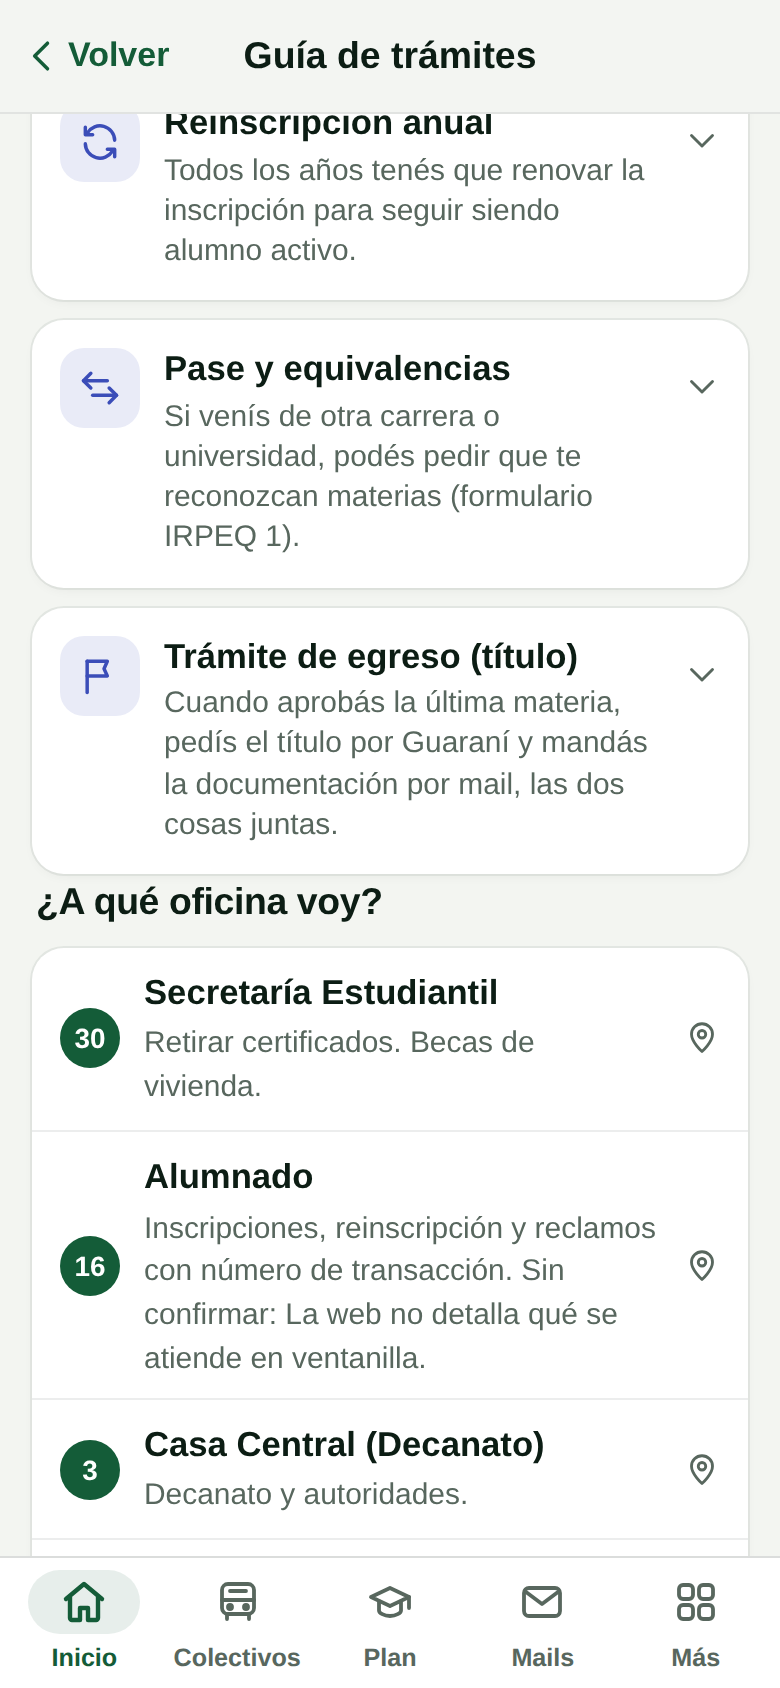
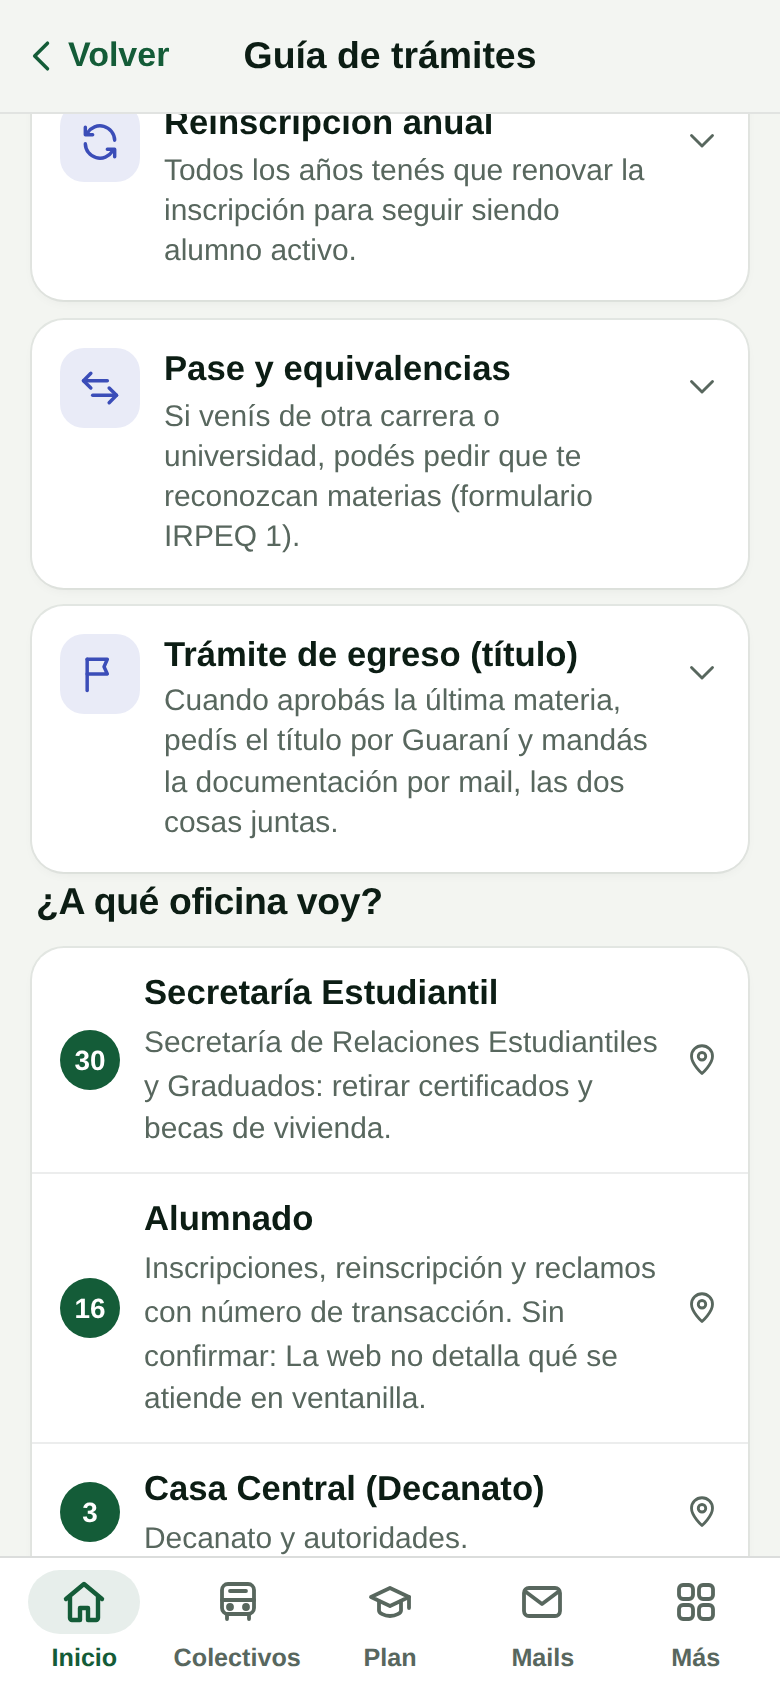
Trámites: Centro de Salud en el Pabellón 15, Secretaría Estudiantil y boleto en toda la provincia
Datos confirmados por Santi.

Claude-Session: https://claude.ai/code/session_01L8FW6L5yboTwitVha8t4YR

diff --git a/src/data/tramites.ts b/src/data/tramites.ts
@@ -71,11 +71,7 @@ export const TRAMITES: Tramite[] = [
     pasos: [
       { texto: 'Descargá el formulario de inscripción y la lista de requisitos 2026.', enlace: { titulo: 'Formulario Becas Vivienda (PDF)', url: 'https://fveter.unr.edu.ar/assets/archivos/Formulario%20Becas%20Vivienda.pdf' } },
       { texto: 'Juntá la documentación de la lista (los datos personales van como declaración jurada).', enlace: { titulo: 'Requisitos beca de vivienda 2026 (PDF)', url: 'https://fveter.unr.edu.ar/assets/archivos/Requisitos%20beca%20de%20vivienda%202026.pdf' } },
-      {
-        texto: 'Entregá todo en la Secretaría de Relaciones Estudiantiles y Graduados.',
-        lugar: 30,
-        sinConfirmar: 'Suponemos que es la "Secretaría Estudiantil" del mapa (30); la web no da la ubicación',
-      },
+      { texto: 'Entregá todo en la Secretaría de Relaciones Estudiantiles y Graduados (la Secretaría Estudiantil).', lugar: 30 },
     ],
     contacto: { tel: TEL_FCV },
     fuente: { titulo: 'fveter.unr.edu.ar: Becas de la Facultad', url: 'https://fveter.unr.edu.ar/becasdelfacultad.html' },
@@ -105,10 +101,7 @@ export const TRAMITES: Tramite[] = [
       { texto: 'Ingresá con tu ID Ciudadana (si no tenés, creala) y completá tus datos.' },
       { texto: 'Si el sistema te lo pide, subí el certificado de alumno regular (lo sacás en Guaraní).' },
       { texto: 'Cuando te aprueben, acreditalo en tu tarjeta SUBE en cualquier terminal. En los interurbanos sin SUBE el pasaje sale como voucher o código QR desde la app.' },
-      {
-        texto: 'Para ir y volver de Rosario, fijate en la app qué empresas del corredor Casilda ⇄ Rosario lo aceptan.',
-        sinConfirmar: 'Las fuentes no listan empresas ni si cubre el tramo Casilda ⇄ Rosario',
-      },
+      { texto: 'Sirve en toda la provincia de Santa Fe, también para el colectivo Casilda ⇄ Rosario.' },
     ],
     fuente: { titulo: 'La Capital: el trámite paso a paso', url: 'https://www.lacapital.com.ar/la-ciudad/boleto-educativo-santa-fe-el-tramite-paso-paso-obtener-el-beneficio-n10241849.html' },
   },
@@ -173,14 +166,10 @@ export const TRAMITES: Tramite[] = [
 
 /** Oficinas del predio a las que mandan los trámites (número del mapa y para qué ir) */
 export const OFICINAS: { lugar: number; para: string; sinConfirmar?: string }[] = [
-  { lugar: 30, para: 'Retirar certificados. Becas de vivienda.' },
+  { lugar: 30, para: 'Secretaría de Relaciones Estudiantiles y Graduados: retirar certificados y becas de vivienda.' },
   { lugar: 16, para: 'Inscripciones, reinscripción y reclamos con número de transacción.', sinConfirmar: 'La web no detalla qué se atiende en ventanilla' },
   { lugar: 3, para: 'Decanato y autoridades.' },
-  {
-    lugar: 29,
-    para: 'Atención de salud para estudiantes.',
-    sinConfirmar: 'La web de la facultad ubica el Centro de Salud en el Pabellón 15; el mapa lo marca en el 29',
-  },
+  { lugar: 15, para: 'Atención de salud para estudiantes, en el Pabellón 15.' },
 ];
 
 export const CONTACTO_FCV = { tel: TEL_FCV, dir: 'Bv. Ovidio Lagos 1000, Casilda' };

diff --git a/src/data/mapaFacu.ts b/src/data/mapaFacu.ts
@@ -38,7 +38,7 @@ export const LUGARES: Lugar[] = [
   { n: 12, nombre: 'Escuela Agrotécnica', cat: 'estudio', x: 82.9, y: 48.8 },
   { n: 13, nombre: 'Industria', cat: 'campo', x: 64.7, y: 19.1 },
   { n: 14, nombre: 'Ganadería', cat: 'campo', x: 15.5, y: 5.1 },
-  { n: 15, nombre: 'Edificio 15', cat: 'estudio', x: 28.2, y: 18.4, nota: 'La referencia del mapa no dice qué es' },
+  { n: 15, nombre: 'Centro de Salud (Pabellón 15)', cat: 'servicios', x: 28.2, y: 18.4, nota: 'No figura en la referencia original del mapa' },
   { n: 16, nombre: 'Alumnado', cat: 'estudio', x: 30.2, y: 44.7 },
   { n: 17, nombre: 'Laboratorios', cat: 'estudio', x: 35.0, y: 41.6 },
   { n: 18, nombre: 'Kiosco (El Honguito)', cat: 'servicios', x: 48.2, y: 54.6 },
@@ -52,7 +52,7 @@ export const LUGARES: Lugar[] = [
   { n: 26, nombre: 'Fotocopiadora', cat: 'servicios', x: 31.2, y: 59.5 },
   { n: 27, nombre: 'Piscicultura', cat: 'campo', x: 60.3, y: 30.4 },
   { n: 28, nombre: 'Casa 9', cat: 'campo', x: 3.9, y: 58.4 },
-  { n: 29, nombre: 'Centro de Salud', cat: 'servicios', x: 23.2, y: 42.3 },
+  { n: 29, nombre: 'Centro de Salud (según la referencia)', cat: 'servicios', x: 23.2, y: 42.3, nota: 'Está en el Pabellón 15 (el 15 del mapa)' },
   { n: 30, nombre: 'Secretaría Estudiantil', cat: 'estudio', x: 26.4, y: 38.6 },
   { n: 31, nombre: 'Comedor', cat: 'servicios', x: 25.5, y: 69.8 },
 ];

diff --git a/src/screens/MapaFacu.tsx b/src/screens/MapaFacu.tsx
@@ -140,7 +140,7 @@ export function MapaFacu() {
           {!lista.length && <p className="muted center pad">No hay lugares con “{q}” en el mapa.</p>}
         </div>
 
-        <p className="credit-foot">Mapa: Unidad Veterinaria. El 15 no figura en la referencia original.</p>
+        <p className="credit-foot">Mapa: Unidad Veterinaria. El 15 (Centro de Salud) no figura en la referencia original.</p>
       </div>
     </Page>
   );
